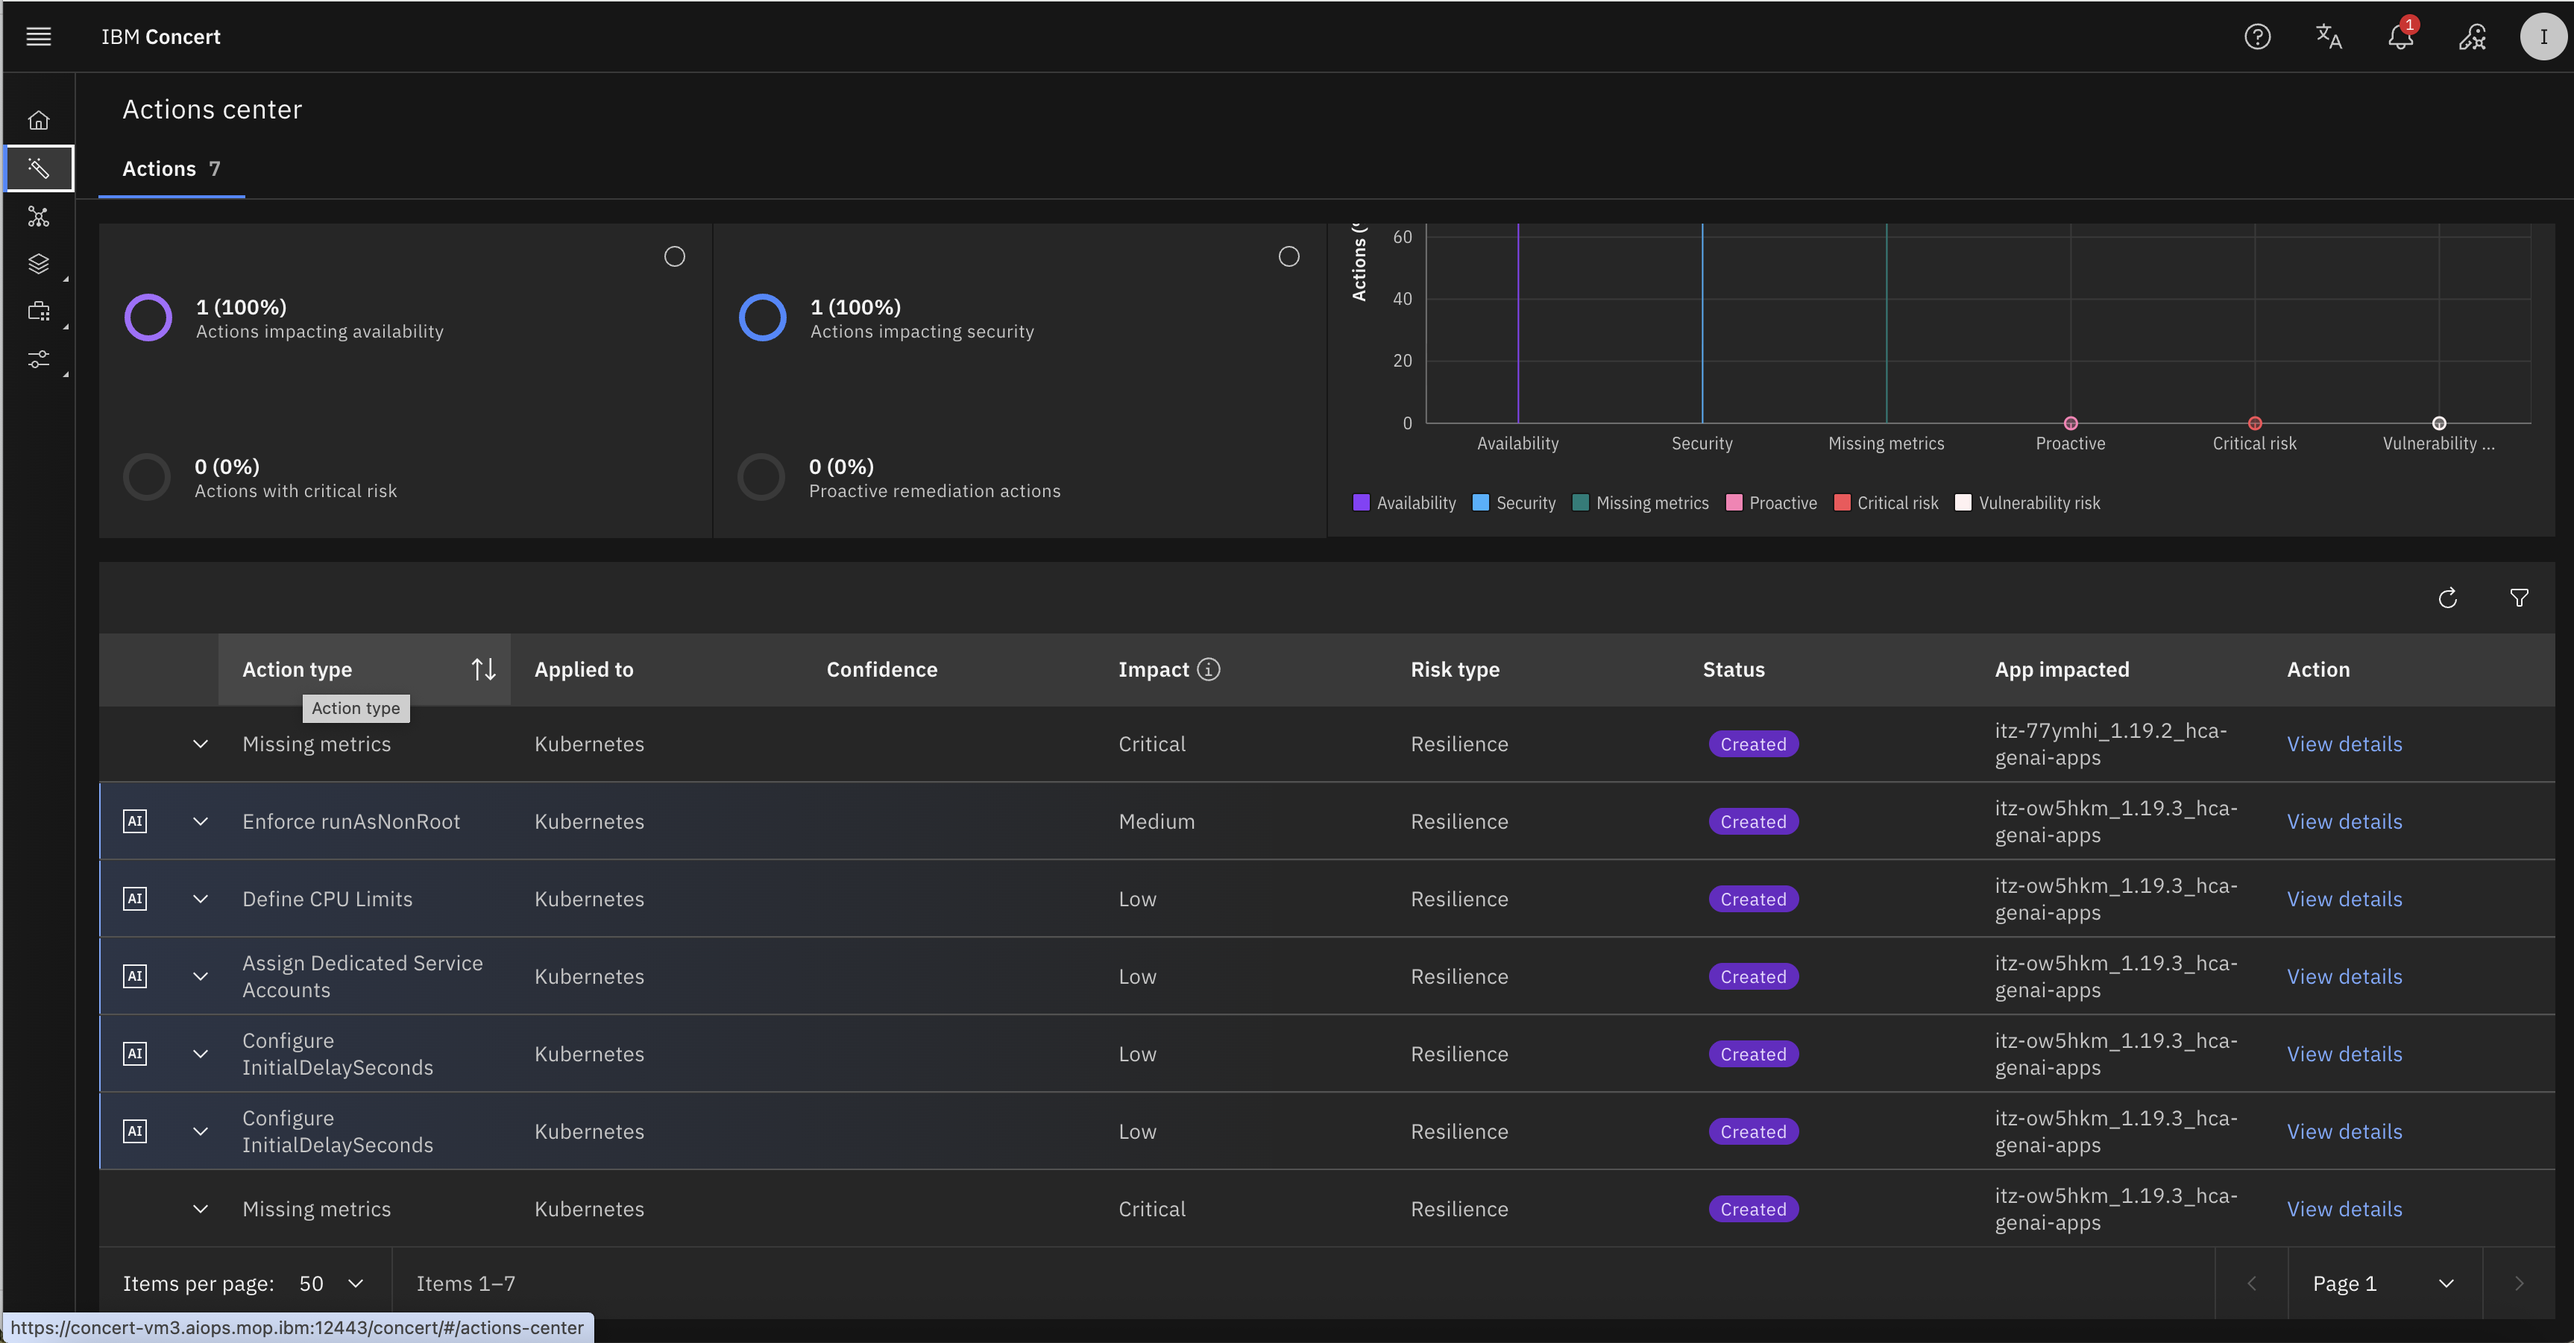
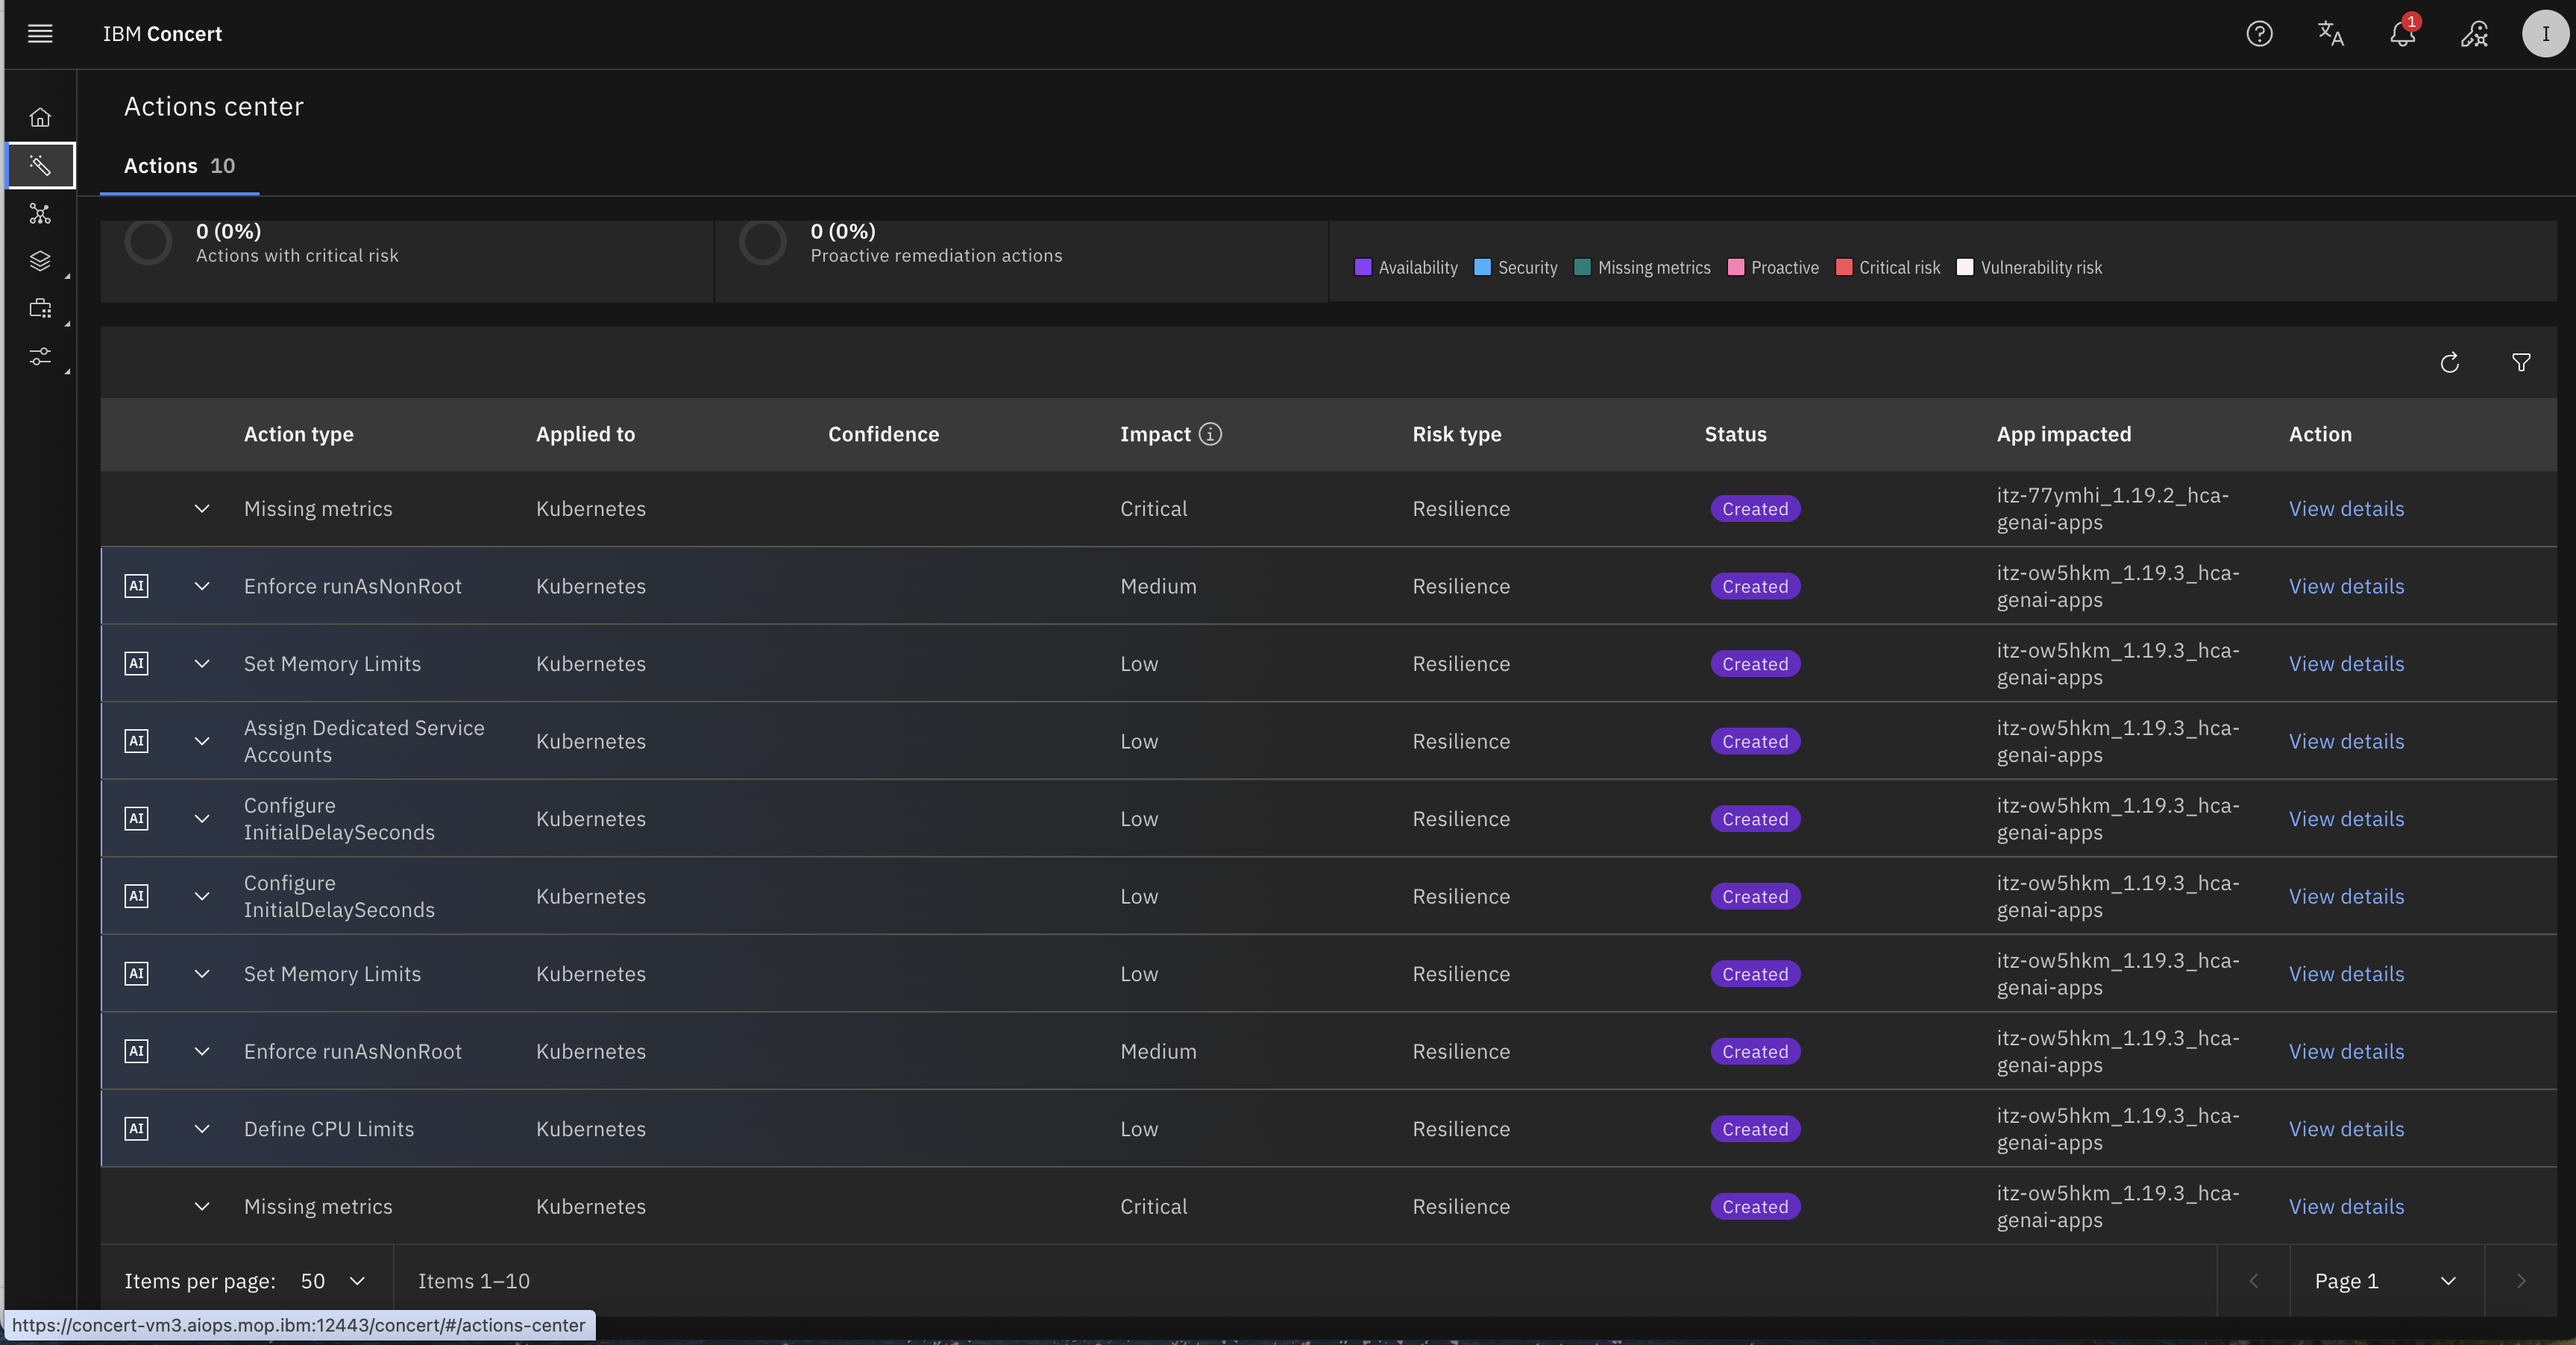
concert 2.0.0

diff --git a/labs/Lab8-auto-discovery-auto-resilience.md b/labs/Lab8-auto-discovery-auto-resilience.md
@@ -19,7 +19,7 @@ You will analyze the result of the resilience assessment and try to solve the ap
   - [Content](#content)
   - [Clear the previously imported data](#clear-the-previously-imported-data)
   - [Deploy the application on openshift](#deploy-the-application-on-openshift)
-  - [Run the **Discover your data** feature](#run-the-discover-your-data-feature)
+  - [Run **Discover your data**](#run-discover-your-data)
   - [Explore the actions generated in the Action Center and the created resilience assessment](#explore-the-actions-generated-in-the-action-center-and-the-created-resilience-assessment)
   - [Remediation: Improve the quality of the application deployment](#remediation-improve-the-quality-of-the-application-deployment)
   - [Run again the integration job to generate a new resilience assessment](#run-again-the-integration-job-to-generate-a-new-resilience-assessment)
@@ -67,7 +67,7 @@ oc apply -f ocp-deploy-summarization-svc.yaml
 oc get pods
 ```
 
-## Run the **Discover your data** feature
+## Run **Discover your data** 
 
 - From the burger menu, navigate to **Concert->Home**
 - On the top right of the screen, click the **Discover Your Data** button
